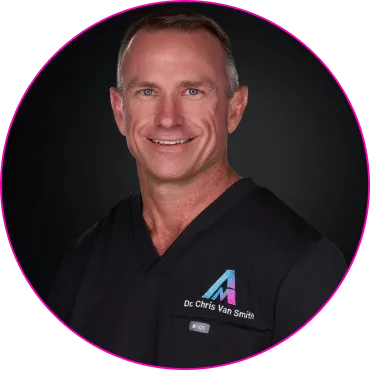
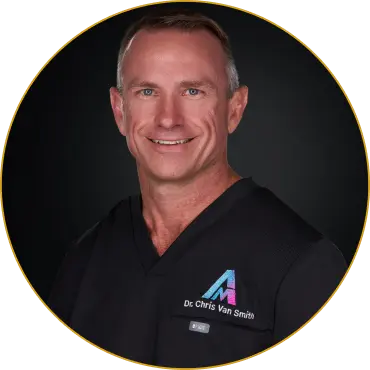
changed gome page color and images

diff --git a/css/header.css b/css/header.css
@@ -162,7 +162,7 @@ header {
         width: 32px;
         height: 3px;
         margin: 5px auto;
-        background-color: var(--white);
+        background-color: var(--main-color);
         transition: 0.2s;
         border-radius: 3px;
     }
@@ -248,7 +248,7 @@ header {
     }
 
     li::marker {
-        color: #00e0ff;
+        color: var(--main-color);
         font-size: 26px;
     }
 
@@ -368,6 +368,8 @@ header {
         height: 40px !important;
         width: 144px !important;
         transition: all 2s;
+        object-fit: contain;
+        object-position: left;
     }
 
     .logo-color {
@@ -401,7 +403,7 @@ header {
         padding-top: 16px;
         padding-bottom: 16px;
         background-color: var(--dark-bcg-1);
-        border-top: #00e0ff 1px solid;
-        border-bottom: #00e0ff 1px solid;
+        border-top: var(--main-color) 1px solid;
+        border-bottom: var(--main-color) 1px solid;
     }
 }

diff --git a/css/faq.css b/css/faq.css
@@ -151,7 +151,6 @@
   .separator {
     margin-top: 12px;
     margin-bottom: 12px;
-    background-color: #00e0ff;
   }
   .plus-minus-icon {
     font-size: 25px;
